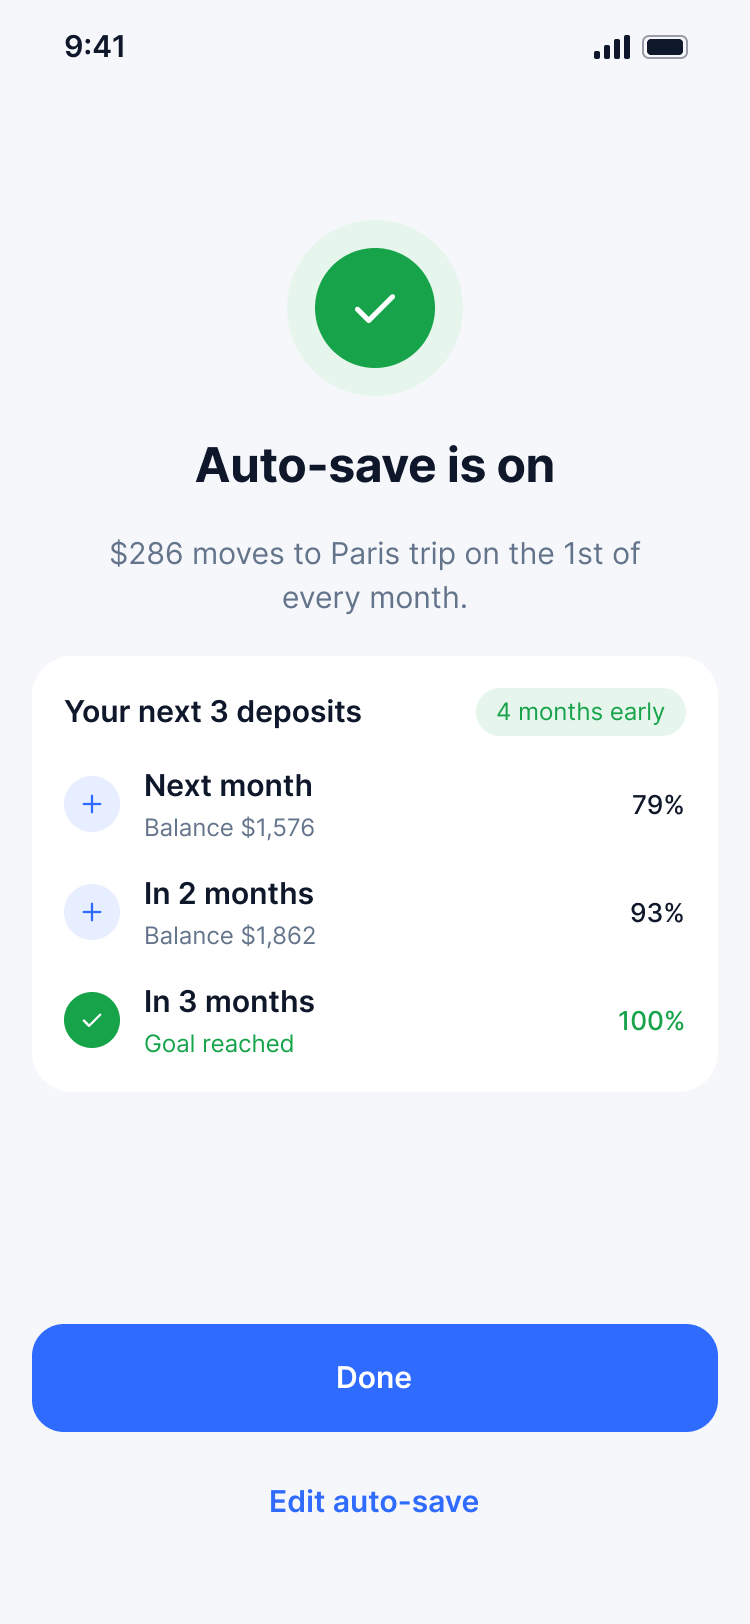
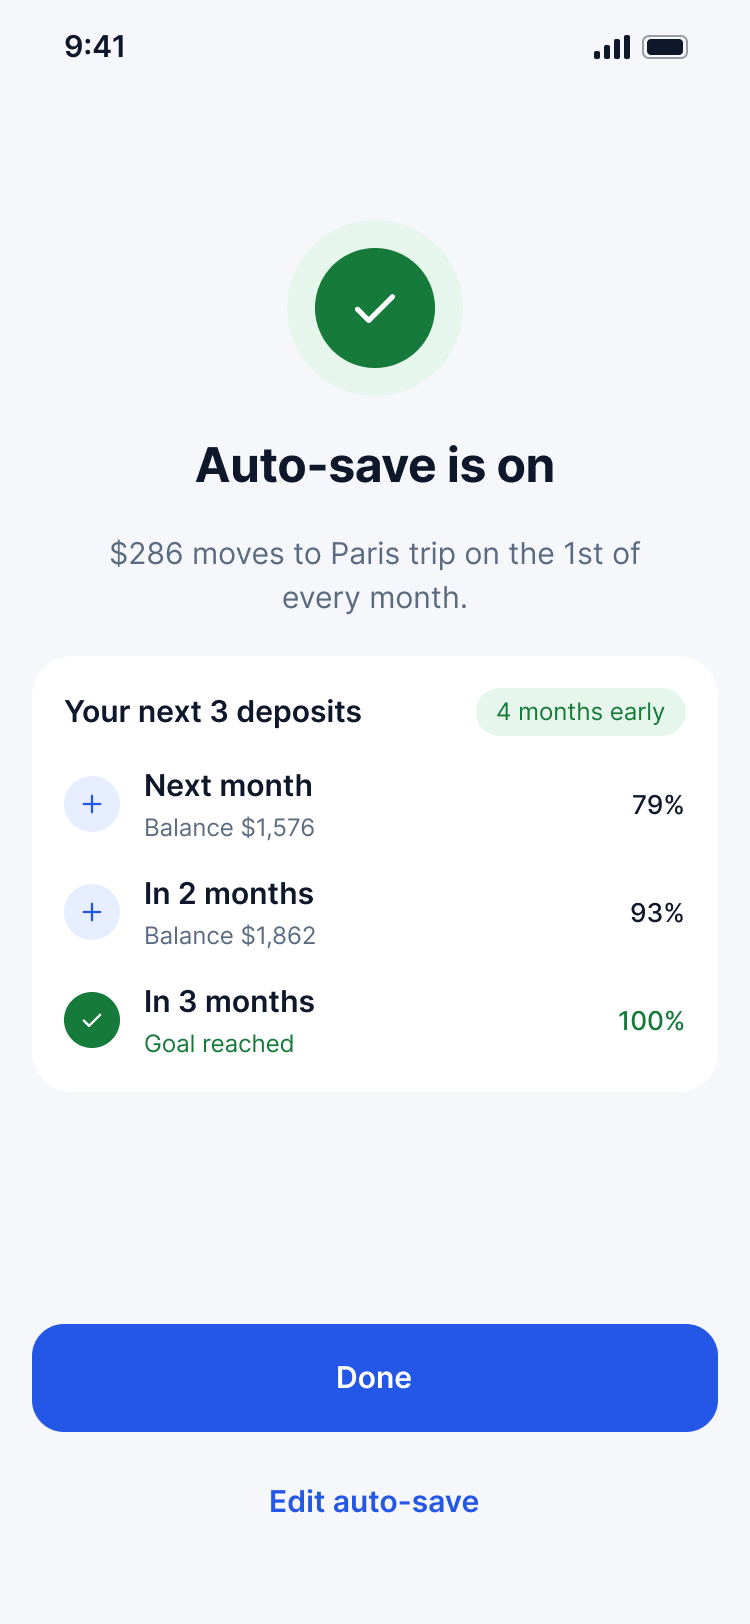
GoalGuide: swap in WCAG-compliant screen exports
All screens, keyframes, system sheets and the cover now use the
darker brand, green, red and grey, and the 44px chips and back
buttons. Add money animation re-aligned to the new sheet.

Claude-Session: https://claude.ai/code/session_01JYwvxiFYgykwNKjYthujzt

diff --git a/app/work/goalguide/Story.tsx b/app/work/goalguide/Story.tsx
@@ -409,7 +409,7 @@ export function AddMoneyDemo() {
         >
           <motion.div
             className="absolute rounded-[3cqw] bg-white"
-            style={{ left: "4.3%", right: "4.3%", top: `${((1448 - 754) / 870) * 100}%`, height: `${(108 / 870) * 100}%` }}
+            style={{ left: "4.3%", right: "4.3%", top: `${((1452 - 754) / 870) * 100}%`, height: `${(108 / 870) * 100}%` }}
             animate={{ opacity: phase === "confirm" ? 0.25 : 0 }}
             transition={{ duration: 0.15 }}
           />
